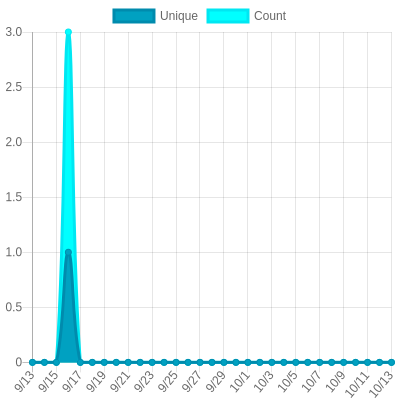
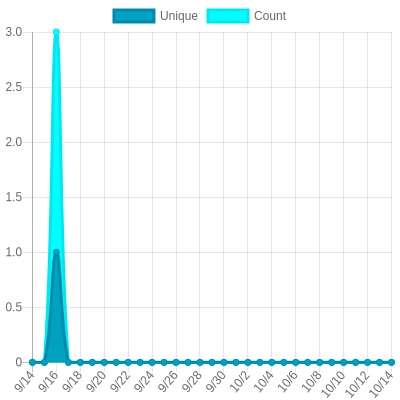
Update views

diff --git a/readme/977206944/month.md b/readme/977206944/month.md
@@ -21,6 +21,17 @@
 	</tr>
 	<tr>
 		<td>
+			<code>2025/10/14</code>
+		</td>
+		<td>
+			<code>0</code>
+		</td>
+		<td>
+			<code>0</code>
+		</td>
+	</tr>
+	<tr>
+		<td>
 			<code>2025/10/13</code>
 		</td>
 		<td>
@@ -349,21 +360,10 @@
 			<code>0</code>
 		</td>
 	</tr>
-	<tr>
-		<td>
-			<code>2025/9/13</code>
-		</td>
-		<td>
-			<code>0</code>
-		</td>
-		<td>
-			<code>0</code>
-		</td>
-	</tr>
 </table>
 
 </details>
-<small><i>Last updated on 2025/10/13 6:18 PM UTC</i></small>
+<small><i>Last updated on 2025/10/14 12:59 AM UTC</i></small>
 
 ## ✂Copy and 📋 Paste
 ### SVG Badge

diff --git a/readme/977206944/week.md b/readme/977206944/week.md
@@ -21,6 +21,17 @@
 	</tr>
 	<tr>
 		<td>
+			<code>2025/10/14</code>
+		</td>
+		<td>
+			<code>0</code>
+		</td>
+		<td>
+			<code>0</code>
+		</td>
+	</tr>
+	<tr>
+		<td>
 			<code>2025/10/13</code>
 		</td>
 		<td>
@@ -96,21 +107,10 @@
 			<code>0</code>
 		</td>
 	</tr>
-	<tr>
-		<td>
-			<code>2025/10/6</code>
-		</td>
-		<td>
-			<code>0</code>
-		</td>
-		<td>
-			<code>0</code>
-		</td>
-	</tr>
 </table>
 
 </details>
-<small><i>Last updated on 2025/10/13 6:18 PM UTC</i></small>
+<small><i>Last updated on 2025/10/14 12:59 AM UTC</i></small>
 
 ## ✂Copy and 📋 Paste
 ### SVG Badge

diff --git a/README.md b/README.md
@@ -26,7 +26,7 @@ The project created and maintained by [gayanvoice](https://github.com/gayanvoice
 			</a>
 		</td>
 		<td>
-			2025/10/11 12:56 AM UTC
+			2025/10/12 1:02 AM UTC
 		</td>
 		<td>
 			4
@@ -37,7 +37,7 @@ The project created and maintained by [gayanvoice](https://github.com/gayanvoice
 	</tr>
 </table>
 
-<small><i>Last updated on 2025/10/13 6:19 PM UTC</i></small>
+<small><i>Last updated on 2025/10/14 12:59 AM UTC</i></small>
 
 ## ✂Copy and 📋 Paste
 ### Total Views Badge

diff --git a/readme/977206944/year.md b/readme/977206944/year.md
@@ -165,7 +165,7 @@
 </table>
 
 </details>
-<small><i>Last updated on 2025/10/13 6:18 PM UTC</i></small>
+<small><i>Last updated on 2025/10/14 12:59 AM UTC</i></small>
 
 ## ✂Copy and 📋 Paste
 ### SVG Badge
